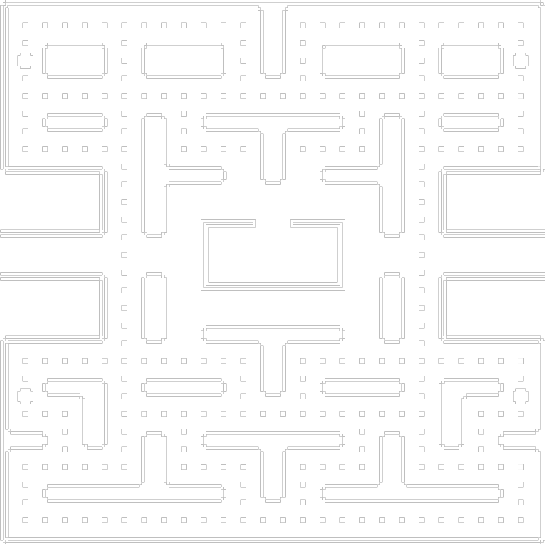
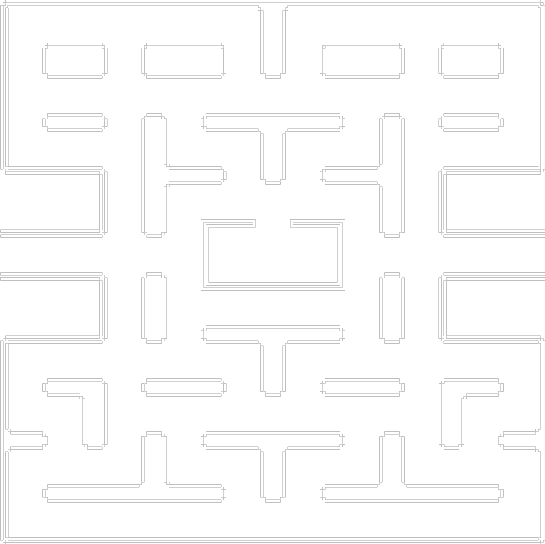
1313131313

diff --git a/css/style.css b/css/style.css
@@ -55,7 +55,7 @@ html, body {
 	line-height: 1;
 	font-size: 18px;
 	font-family: 'Roboto';
-	background-color: black;
+	background-color: rgb(0, 0, 0);
 }
 
 a:active, a:focus { outline: none; }
@@ -77,8 +77,25 @@ a:active, a:focus { outline: none; }
 }
 
 .maze{
-	visibility: hidden;
+	opacity: 0;
+	animation:game-over 0.3s ease infinite alternate forwards 9.5s,
+	stop-blincking 1s linear 1 forwards 24s;
 }
+
+
+@keyframes stop-blincking {
+
+	0%{
+		opacity: 0;
+	}
+	100%{
+		opacity: 0;
+	}
+}
+
+
+
+
 .pacman__gates{
 	position: absolute;
 	top: 310px;
@@ -94,7 +111,7 @@ a:active, a:focus { outline: none; }
 	height: 8px;
 	width: 48px;
 	background-color: #fff;
-	animation: gates-open 4s ease-in 1 forwards running 15s ;
+	animation: gates-open 4s ease-in 1 forwards running 14s ;
 	overflow: hidden;
 }
 
@@ -118,14 +135,52 @@ a:active, a:focus { outline: none; }
 }
 .pacman__body {
 	min-height: 100vh;
+	position: relative;
 }
 
 .pacman__tv-bezel{
 	position: relative;
 	width: 100%;
 	height: 100%;
+	z-index: 1003;
 }
 
+
+
+
+
+.pacman__screen img{
+	position: absolute;
+	top: 90px;
+	left: 123px;
+	width: 1080px;
+	z-index: 100;
+	opacity: 0.8;
+}
+.pacman__under-screen img{
+	position: absolute;
+	top: 90px;
+	left: 123px;
+	width: 1080px;
+	z-index: 1000;
+}
+.pacman__nes img{
+	position: absolute;
+	top: 800px;
+	right: 0px;
+	width: 700px;
+	z-index: 2000;
+	filter: brightness(0.7);
+}
+.pacman__cartridge img{
+	position: absolute;
+	top: 905px;
+	right: 643px;
+	z-index: 2010;
+	width: 180px;
+	filter: brightness(0.9);
+}
+/*=====================================GAME INFO MESSEGES==================================================================*/
 .pacman__player-one {
 	position: absolute;
 	position: absolute;
@@ -137,7 +192,7 @@ a:active, a:focus { outline: none; }
 	font-size: 26px;
 	opacity: 0;
 	animation:game-over 0.3s ease infinite alternate forwards 0s,
-	player-one-stop 0.1s linear 1 forwards 10s;
+	player-one-stop 0.1s linear 1 forwards 5s;
 }
 .pacman__ready {
 	position: absolute;
@@ -149,16 +204,16 @@ a:active, a:focus { outline: none; }
 	font-size: 26px;
 	opacity: 0;
 	animation:game-over 0.3s ease infinite alternate forwards 0s,
-	player-one-stop 0.1s linear 1 forwards 10s;
+	player-one-stop 0.1s linear 1 forwards 5s;
 }
 .pacman__hi-score{
 	top:150px;
 	left: 155px;
-	
 	position: absolute;
 	font-family:'Emulogic';
 	font-size: 24px;
 	color:brown;
+
 }
 .pacman__1up{
 	top:239px;
@@ -172,7 +227,7 @@ a:active, a:focus { outline: none; }
 }
 .pacman__hi-score-points{
 	top:194px;
-	left: 205px;
+	left: 225px;
 	
 	position: absolute;
 	font-family:'Emulogic';
@@ -181,7 +236,7 @@ a:active, a:focus { outline: none; }
 }
 .pacman__player-points{
 	top:284px;
-	left: 250px;
+	left: 270px;
 	
 	position: absolute;
 	font-family:'Emulogic';
@@ -244,18 +299,18 @@ a:active, a:focus { outline: none; }
 	font-family:'Emulogic';
 	font-size: 12px;
 	color: rgb(3, 136, 184);
-	animation: cherry-point-appear 3s linear 1 forwards 42s;
+	animation: cherry-point-appear 5s linear 1 forwards 42s;
 }
 .pacman__strawberry-point{
 	position: absolute;
 	top:247px;
-	left: 867px;
+	left: 865px;
 	opacity: 0;
 	position: absolute;
 	font-family:'Emulogic';
 	font-size: 12px;
 	color: rgb(3, 136, 184);
-	animation: cherry-point-appear 3s linear 1 forwards 54s;
+	animation: cherry-point-appear 5s linear 1 forwards 54s;
 }
 @keyframes cherry-point-appear {
 	0%{
@@ -389,7 +444,33 @@ a:active, a:focus { outline: none; }
 	height:100%;
 	object-fit: cover;
 	z-index: 3;
+	filter: invert(0);
+	animation:enemy-blinking 0.6s ease infinite alternate forwards 16s,
+	stop-blincking-enemy 1s linear 1 forwards 24s;
 }
+@keyframes enemy-blinking{
+	100%{
+		filter: invert(1);
+	}
+}
+
+
+
+
+
+@keyframes stop-blincking-enemy {
+
+	0%{
+		filter: invert(0);
+	}
+	100%{
+		filter: invert(0);
+	}
+}
+
+
+
+
 .enemy_red {
 	top:348px;
 	left: 300px;
@@ -428,7 +509,7 @@ a:active, a:focus { outline: none; }
 	animation:ghost-shake-pink 2s ease-in 20 alternate running 0.5s,
 	pinky-move 6.5s linear 1 forwards 14.5s,
 	pinky-alive 18s linear 1 forwards 23s,
-	pinky-square-move 8s linear 10 forwards 41s,
+	pinky-square-move 11.6s linear 100 forwards 37.4s,
 	pinky-stop 6000s linear 1 forwards 57.2s;
 	position: absolute;
 	z-index: 7;
@@ -582,10 +663,10 @@ a:active, a:focus { outline: none; }
 }
 @keyframes pinky-stop{
 	0%{
-		transform: translate(-305px, -230px);
+		transform: translate(-230px, -325px) rotateY(-180deg);
 	}
 	100%{
-		transform: translate(-305px, -230px);
+		transform: translate(-230px, -325px) rotateY(-180deg);
 	}
 }
 
@@ -1011,6 +1092,7 @@ a:active, a:focus { outline: none; }
 	background-color: #fff;
 	width: 8px;
 	height: 8px;
+	border-radius: 2.5px;
 }
 
 

diff --git a/index.html b/index.html
@@ -13,12 +13,17 @@
 				<div class="pacman">
 					<div class="pacman__container _container">
 						<div class="pacman__body">
+							<div class="pacman__screen"><img src="img/glass.png" alt="screen"></div>
+							<div class="pacman__under-screen"><img src="img/screen-02.png" alt="under-screen"></div>
+							<div class="pacman__hi-score">HI-SCORE</div>
+							<div class="pacman__hi-score-points">10000</div>
+							<div class="pacman__1up">1UP</div>
+							<div class="pacman__player-points">580</div>
+							<div class="pacman__nes"><img src="img/nes.png" alt="nes"></div>
+							<div class="pacman__cartridge"><img src="img/pacman-cart.png" alt="pacman-cart"></div>
 							<div class="pacman__tv-bezel">
 								<img class="packman__tv-bezel-background" src="img/tv_02.png" alt="tv-bezel">
-								<div class="pacman__hi-score">HI-SCORE</div>
-								<div class="pacman__hi-score-points">10000</div>
-								<div class="pacman__1up">1UP</div>
-								<div class="pacman__player-points">580</div>
+
 								<div class="pacman__cherry"><img src="img/froots/cherry.png" alt="cherry"></div>
 								<div class="pacman__lifes"><img src="img/pacman-life.png" alt="lifes"></div>
 								<div class="pacman__lifes pacman__lifes_second"><img src="img/pacman-life.png" alt="lifes"></div>
